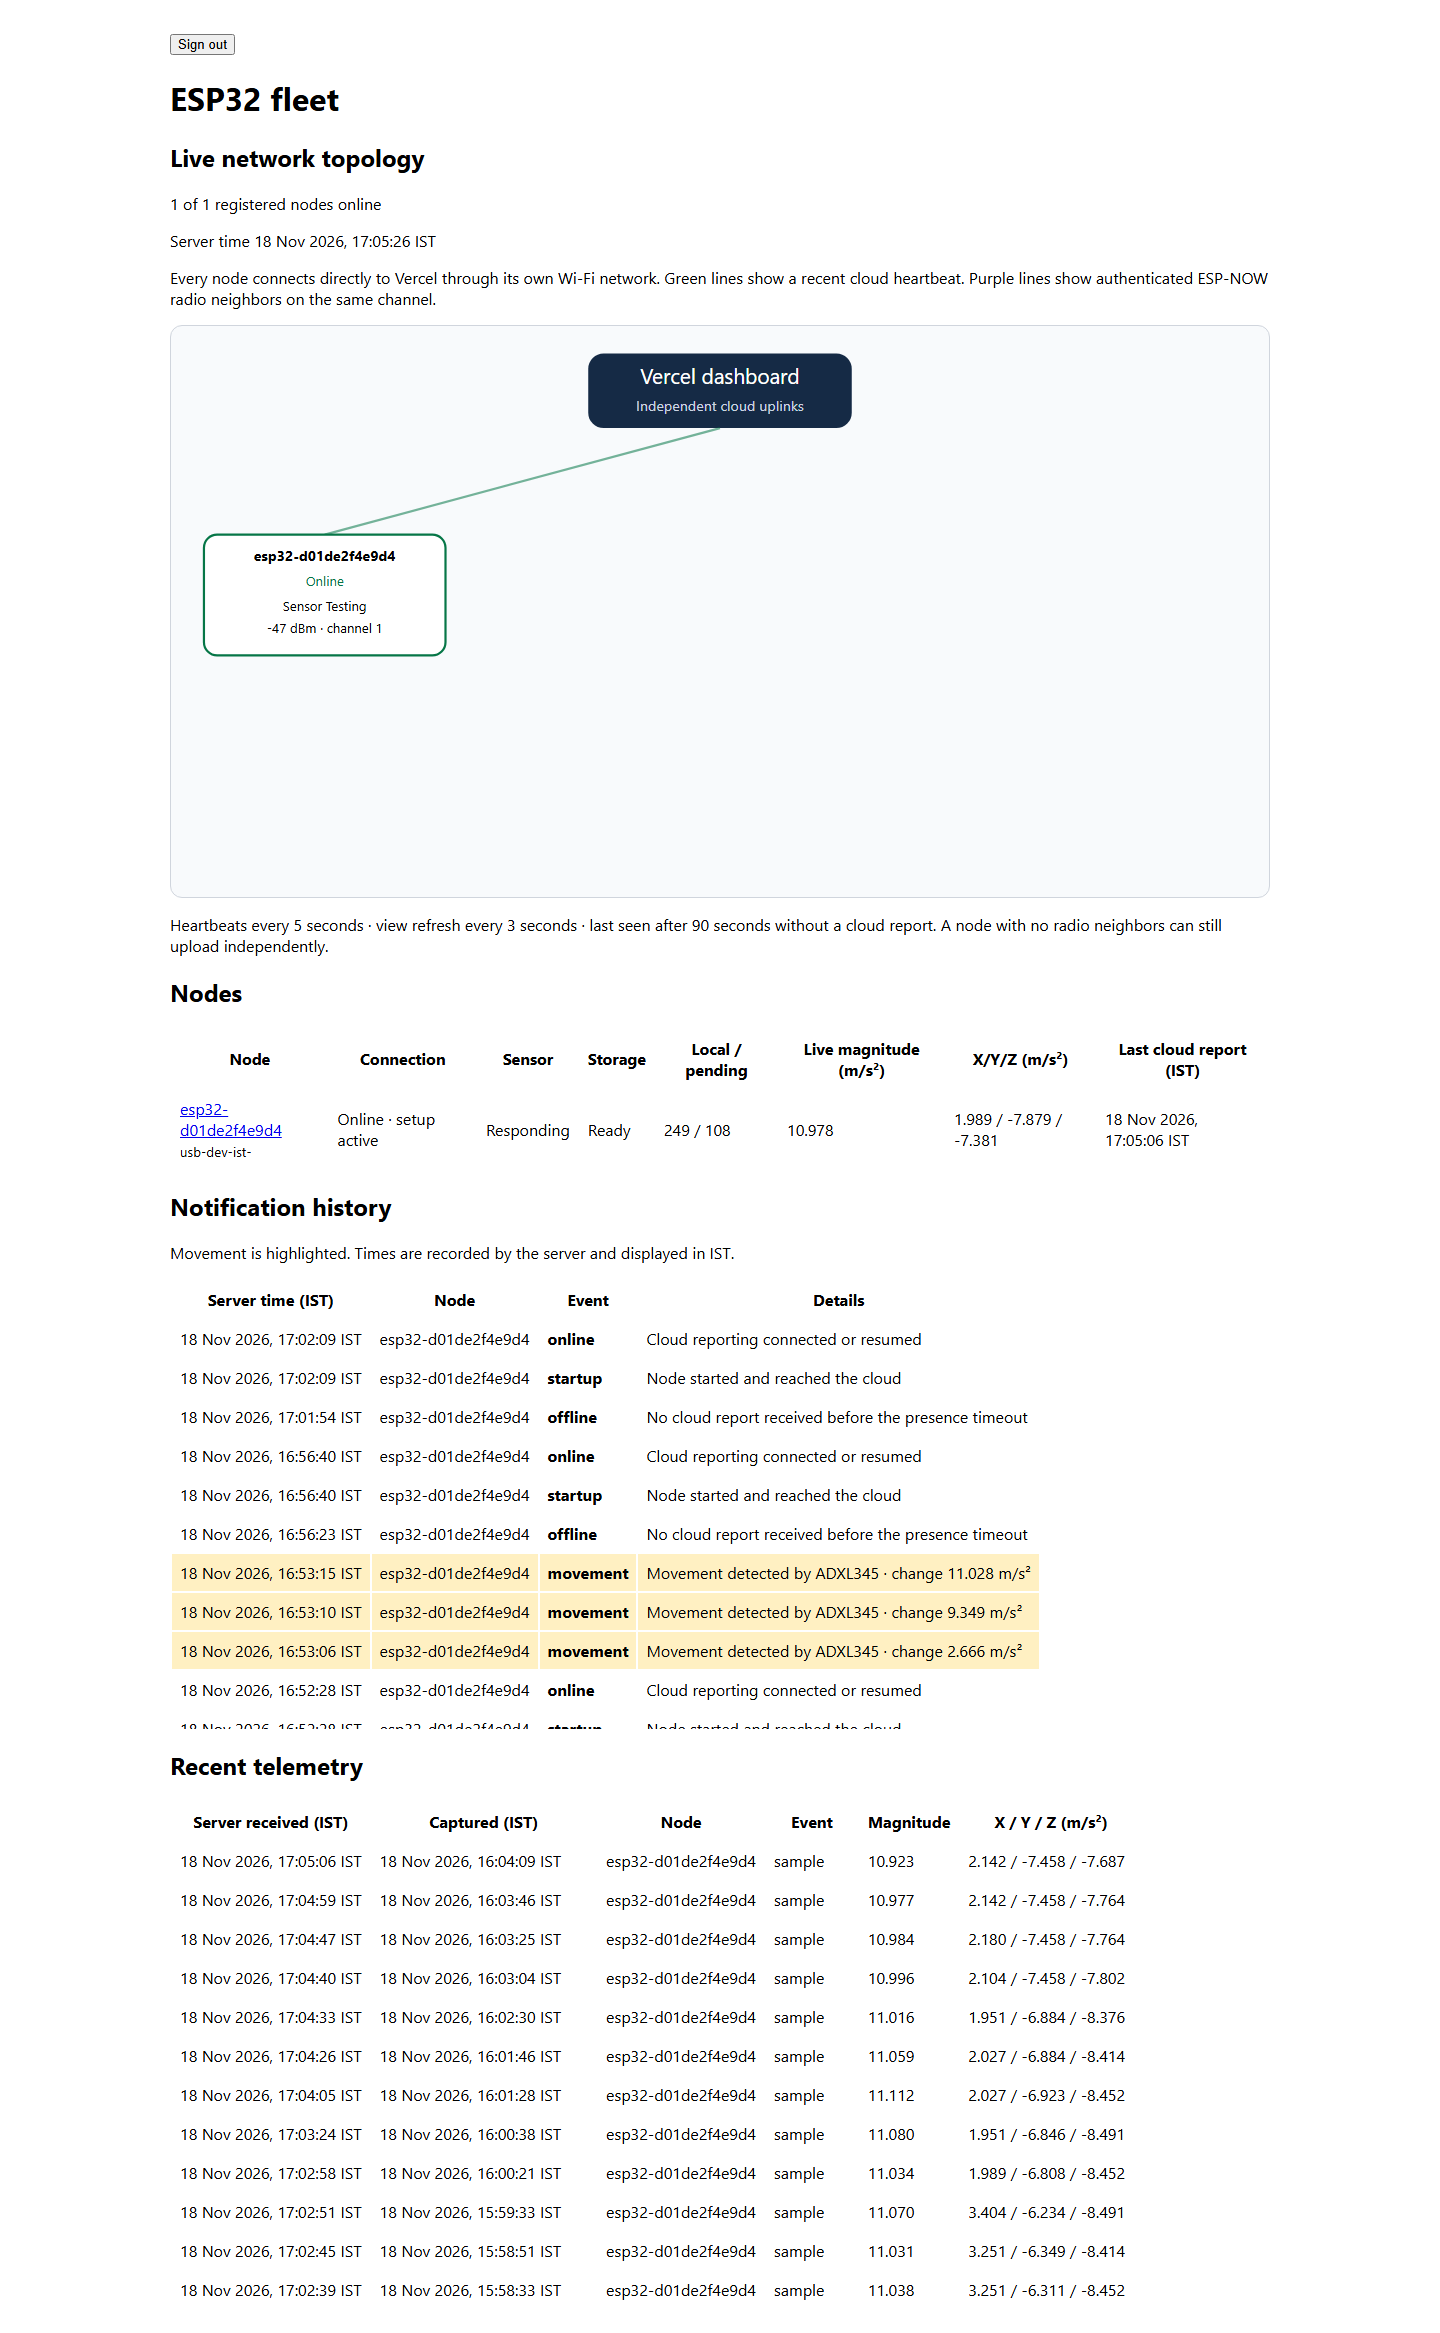
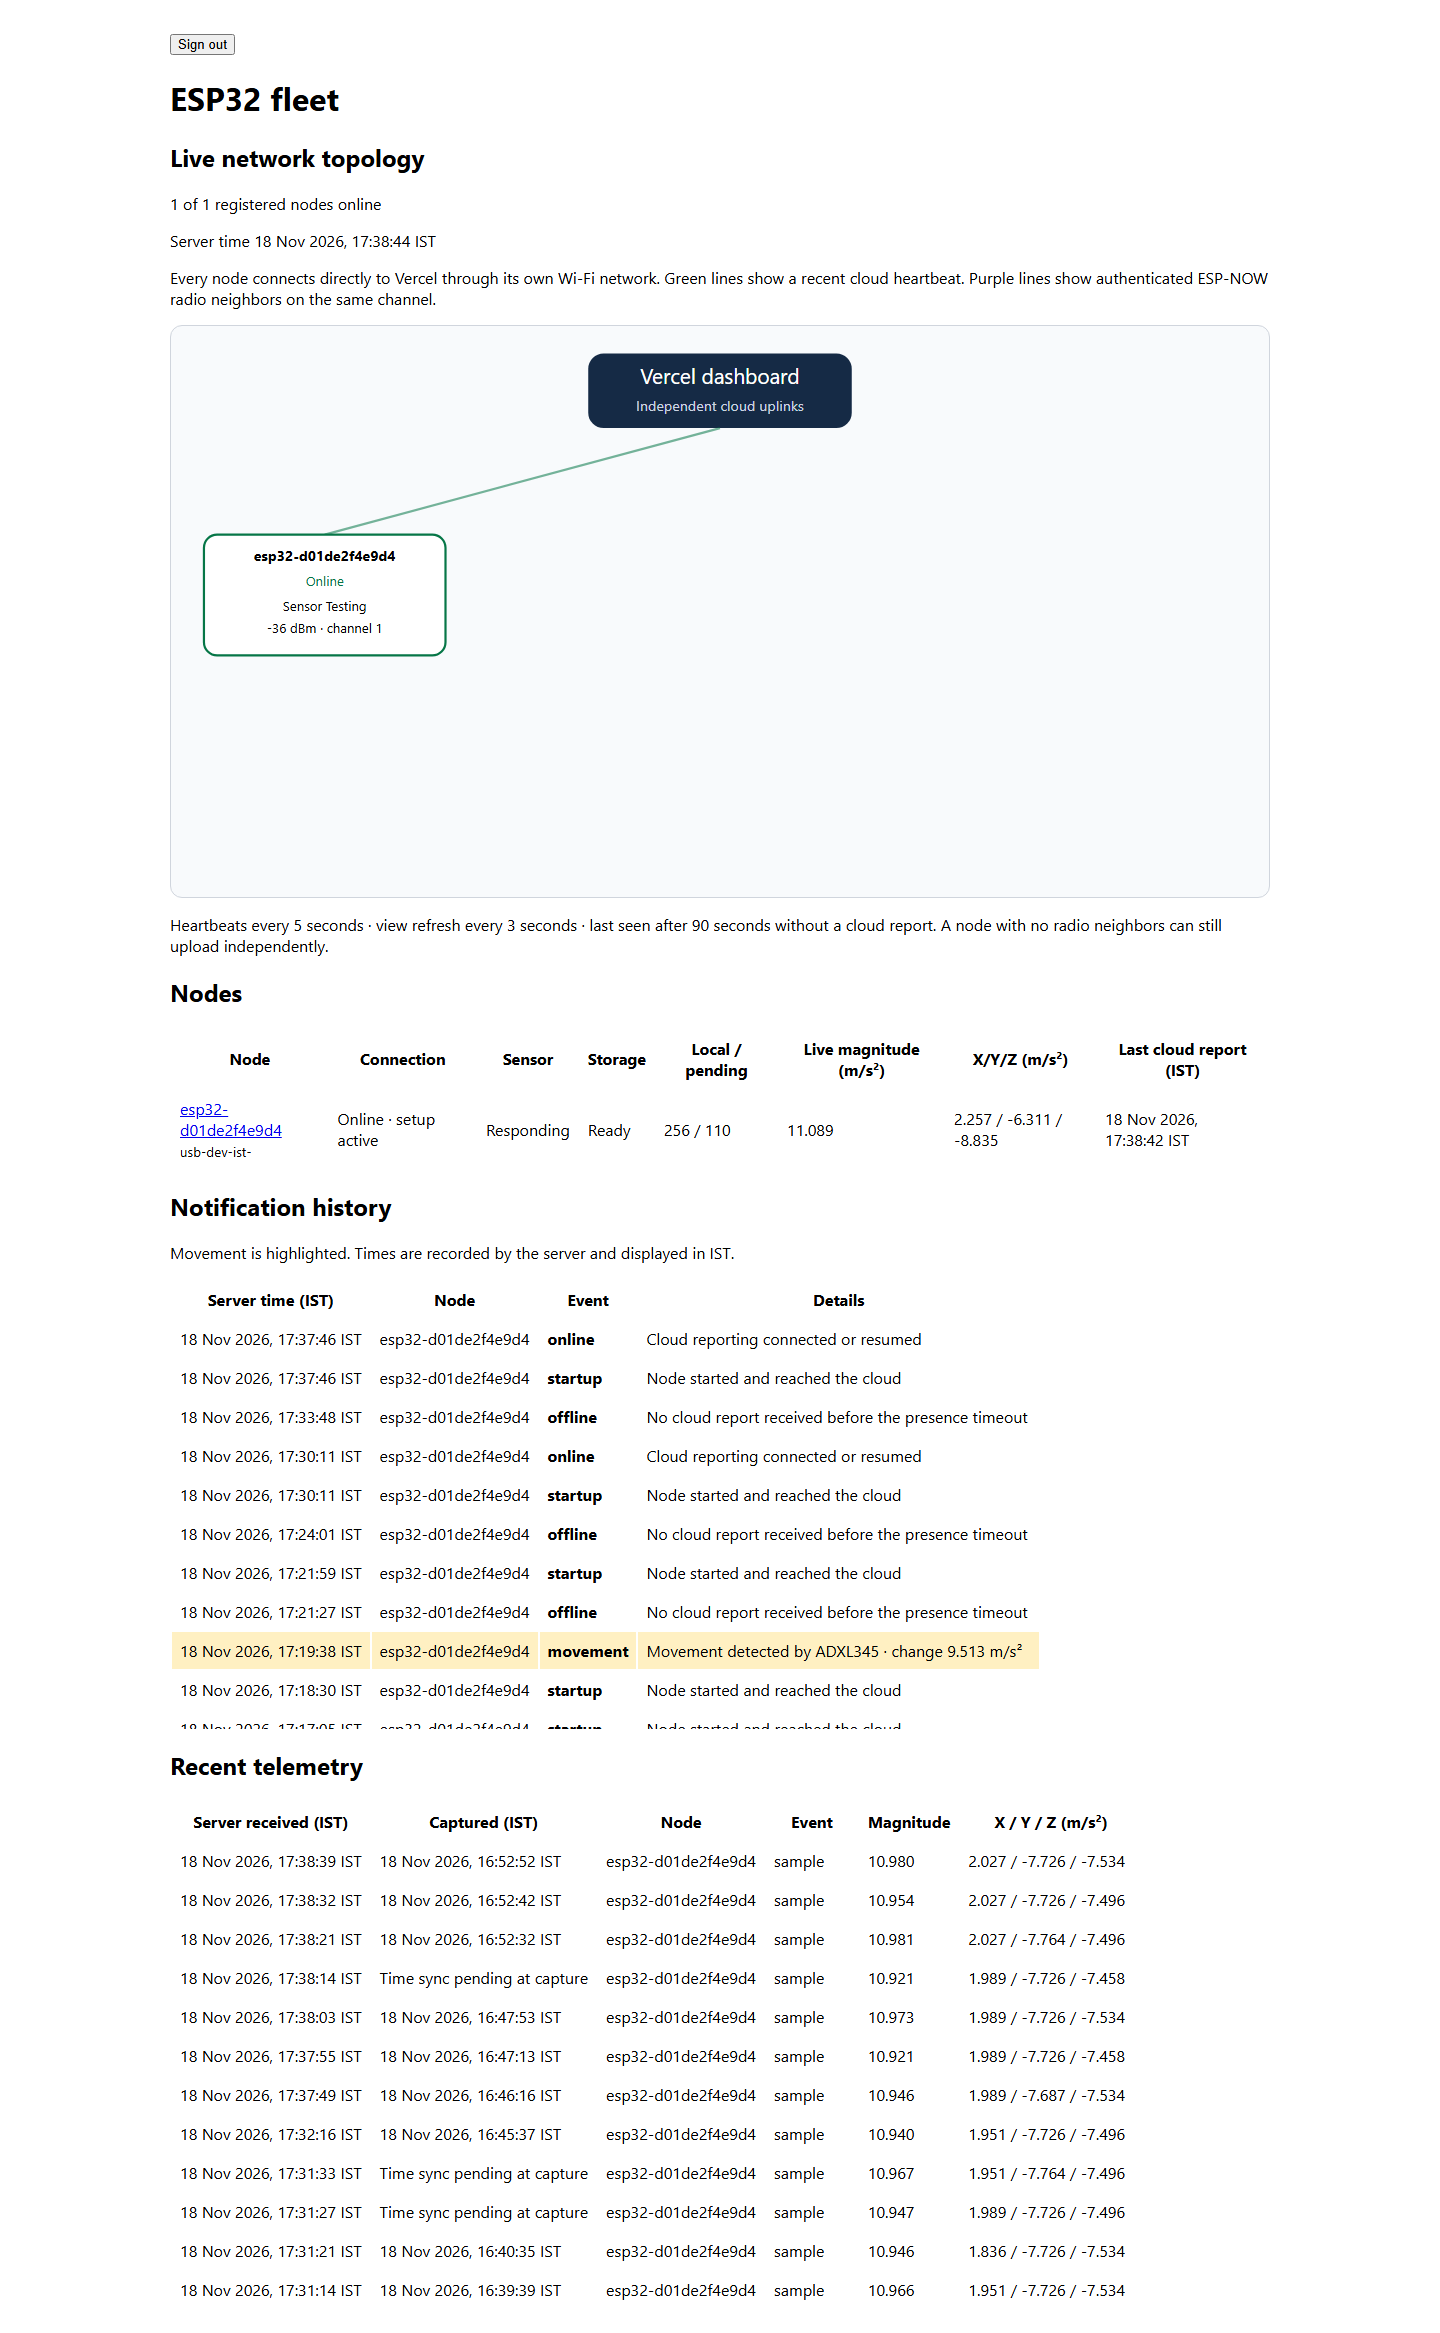
Save bench recovery checkpoint and remaining verification steps

diff --git a/firmware/src/main.cpp b/firmware/src/main.cpp
@@ -736,20 +736,33 @@ void sendHeartbeat() {
 void exportLog() {
   if (!storageReady) { portal.send(503, "text/plain", "Local log unavailable"); return; }
   bool complete = true;
+  File snapshot;
+  size_t count = 0;
   {
     FilesystemLock lock;
-    File snapshot = LittleFS.open("/export.tmp", "w");
+    snapshot = LittleFS.open("/export.tmp", "w");
     complete = bool(snapshot);
-    for (const String &path : logPaths) {
-      if (!complete) break;
-      File entry = LittleFS.open(path);
+    count = logPaths.size();
+  }
+  Serial.printf("Log snapshot started: %u records\n", count);
+  // Only the main loop appends/reclaims index entries. While this handler runs,
+  // workers can acknowledge a path at the same index under the mutex.
+  for (size_t i = 0; i < count && complete; ++i) {
+    {
+      FilesystemLock lock;
+      File entry = LittleFS.open(logPaths[i]);
       String line = readCommittedRecord(entry);
       if (line.length()) {
         complete = snapshot.write(reinterpret_cast<const uint8_t *>(line.c_str()), line.length()) == line.length()
           && snapshot.write(static_cast<uint8_t>('\n')) == 1;
       }
-      esp_task_wdt_reset();
     }
+    esp_task_wdt_reset();
+    vTaskDelay(pdMS_TO_TICKS(1));
+    if ((i + 1) % 32 == 0) Serial.printf("Log snapshot progress: %u/%u\n", i + 1, count);
+  }
+  {
+    FilesystemLock lock;
     snapshot.flush();
     snapshot.close();
   }
@@ -761,7 +774,7 @@ void exportLog() {
   }
   // A file snapshot has a known Content-Length and avoids per-record TCP chunks
   // and a second RAM copy of all filenames during a concurrent TLS handshake.
-  File snapshot = LittleFS.open("/export.tmp");
+  snapshot = LittleFS.open("/export.tmp");
   portal.sendHeader("Content-Disposition", "attachment; filename=esp32-log.ndjson");
   portal.streamFile(snapshot, "application/x-ndjson");
   snapshot.close();

diff --git a/docs/VERIFICATION.md b/docs/VERIFICATION.md
@@ -85,4 +85,18 @@ The production dashboard build reached Ready with live node status, IST history,
 
 A 460800-baud USB transfer stopped midway during development. Several retries at 115200 completed and verified flash hashes, but later 115200 transfers also stopped with “chip stopped responding.” A cable/USB-power check was requested before further recovery flashing. The configured upload speed is 115200. Successful transfers did not require BOOT-button intervention.
 
-The latest portal memory guard and snapshot-export source compiles successfully. Physical acceptance of that exact build remains pending because its USB upload failed. Until a complete recovery image is verified, the board can remain offline with an incomplete application. No filesystem upload or full-chip erase was used during these application recovery attempts.
+After the operator reseated the USB connection, recovery uploads completed and verified the image hashes. The node resumed authenticated heartbeat and telemetry reporting with saved settings and 256 retained local records. No filesystem upload or full-chip erase was used during these application recovery attempts.
+
+The recent-log endpoint returned 30 valid records. A subsequent full export exposed a status-task watchdog timeout while the filesystem mutex was held. The latest uploaded revision releases the mutex between snapshot records and reports snapshot progress on serial. Its OTA-enabled configuration also compiles, using 50,436 bytes RAM and 1,212,613 bytes application flash. Complete physical export acceptance remains open. Portal requests were still intermittent during the last laptop/AP check.
+
+## Session checkpoint and next work
+
+At the operator's request, repeated portal tests stopped. Wi-Fi credentials and settings remain saved in NVS, and committed local records remain in LittleFS. The bench image identifies itself as `usb-dev-ist-motion` and has fleet OTA checks disabled while under validation. The deployed dashboard already includes IST, Online/Last-seen status and movement notification history. The candidate firmware and documentation are saved on `fix/presence-ist-portal`; the stable main OTA channel has not been replaced by these test builds.
+
+Next session:
+
+1. Confirm the existing Wi-Fi connection and fresh cloud status without reopening setup.
+2. Diagnose intermittent AP HTTP requests and complete one full export with uninterrupted heartbeats and no watchdog reset.
+3. Perform one save/reboot check through setup, preserving blank password/secret fields, and restore the production OTA manifest URL.
+4. Rebuild with OTA enabled, publish the verified changes to main, observe GitHub Actions, and install/confirm the release on the physical node.
+5. Update this verification record and capture the final real portal screenshot. Sensor calibration, additional-node tests and controlled power-cut/rollback checks remain separate deployment acceptance work.

diff --git a/docs/FIRMWARE.md b/docs/FIRMWARE.md
@@ -51,7 +51,7 @@ The device writes a complete event to `/littlefs/new.tmp`, flushes, syncs, close
 
 Up to 256 records are retained. Acknowledged history is reclaimed first. An all-pending log skips new samples. An interrupted temporary file is ignored on restart. NVS namespace `fleet` stores `config` and the previously attempted OTA version.
 
-Committed records are read in bounded blocks of at most 1024 bytes. The portal renders at most 30 recent records without retaining 30 parsed JSON documents simultaneously. Full-log export builds `/export.tmp` on flash under the filesystem mutex, then streams that immutable snapshot with a known Content-Length and releases the mutex for delivery. It avoids copying all filenames in RAM or sending hundreds of tiny TCP chunks. The temporary file is removed after delivery and ignored as history after a power cut. Insufficient snapshot space returns 503 and preserves committed records.
+Committed records are read in bounded blocks of at most 1024 bytes. The portal renders at most 30 recent records without retaining 30 parsed JSON documents simultaneously. Full-log export builds `/export.tmp` on flash, releasing the filesystem mutex between records, then streams that immutable snapshot with a known Content-Length. It avoids copying all filenames in RAM or sending hundreds of tiny TCP chunks. The temporary file is removed after delivery and ignored as history after a power cut. Insufficient snapshot space returns 503 and preserves committed records.
 
 Portal status/log polling waits for each request cycle to finish before scheduling the next one. This avoids overlapping requests when a flash operation or a slow client delays a response.
 

diff --git a/docs/OPERATING_MANUAL.md b/docs/OPERATING_MANUAL.md
@@ -230,6 +230,8 @@ In the portal, status and the latest 30 committed records refresh every three se
 
 The full download first creates a temporary snapshot on flash, then streams it to the client. If export returns 503 for insufficient space, the committed records remain intact. Avoid repeated parallel downloads and keep the client connected until completion. A power-cut temporary snapshot is ignored as telemetry and overwritten on the next export.
 
+Snapshot preparation can take time on a full filesystem. Cloud status runs independently, but the main-loop sensor acquisition can pause during this manual operation. Export during maintenance when uninterrupted acquisition is not required. A dedicated acquisition task and storage design would be needed for strict continuous-capture guarantees.
+
 ```powershell
 Invoke-WebRequest http://192.168.4.1/log -OutFile .\esp32-log.ndjson
 $records = Get-Content .\esp32-log.ndjson | ForEach-Object { $_ | ConvertFrom-Json }

diff --git a/README.md b/README.md
@@ -4,6 +4,8 @@ An ESP32 connects to Wi-Fi, records telemetry locally, uploads it over HTTPS, an
 
 The hardware target is a **classic ESP32 DevKit with 4 MB flash** and an ADXL345 connected over I²C. X/Y/Z acceleration is reported in m/s², and the summary value is acceleration magnitude multiplied by sensitivity. GPIO 4 remains the capacitive setup input.
 
+The current presence/IST/portal revision is under bench validation on `fix/presence-ist-portal`. Saved settings survive reboots. The cloud dashboard is updated, while intermittent portal requests and full-log export acceptance remain open before publishing this firmware to the fleet. See the [session checkpoint and next steps](docs/VERIFICATION.md#session-checkpoint-and-next-work).
+
 ## Connected node and wiring
 
 | Item | Value |
